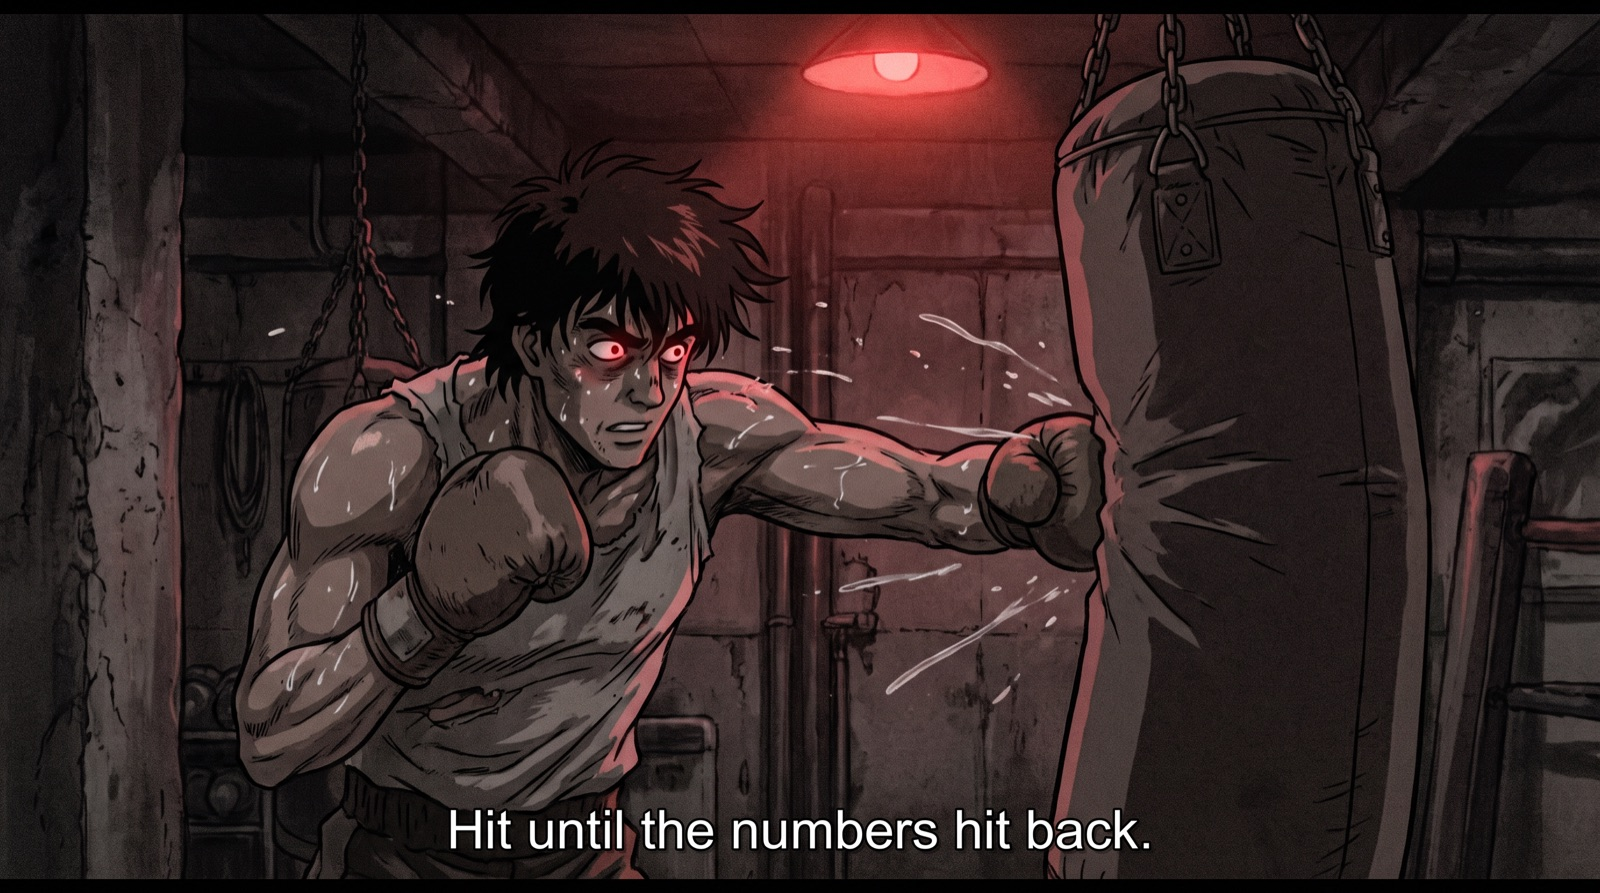
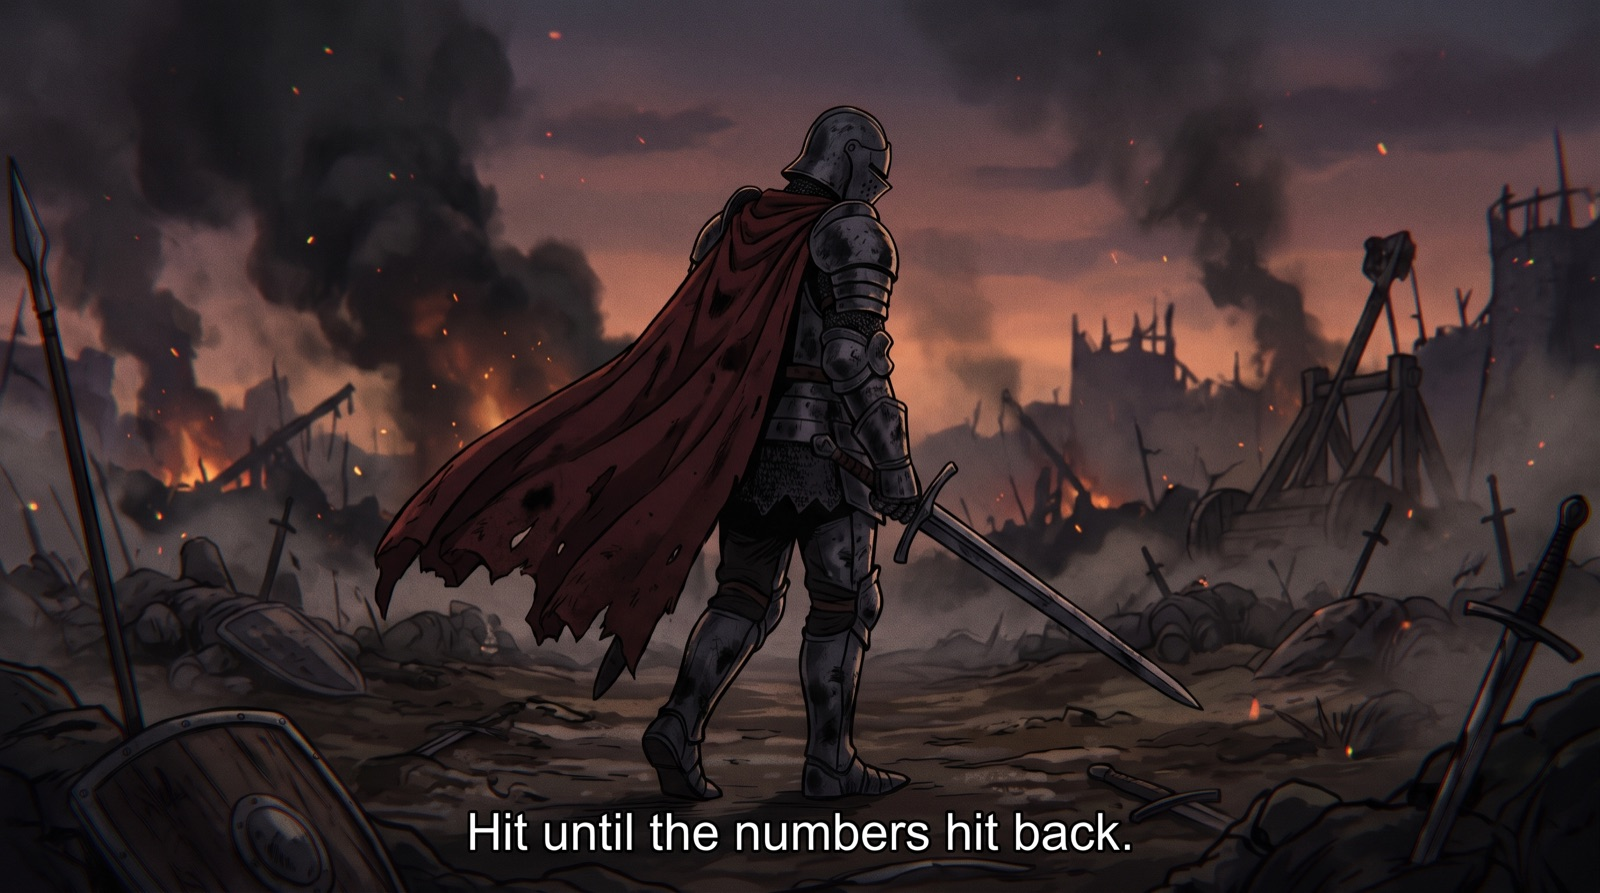
Motivation : avril, juin, juillet refaits en style ancien (empereur, roi, chevalier) ; cache v33

diff --git a/index.html b/index.html
@@ -1280,7 +1280,7 @@ function rendreTodo() {
   const claude = T.filter(x => x.qui === "claude" && (!x.fait || x.jour >= plusJours(aujL, -7)));
   const nomJ = TD.jour === aujL ? "aujourd'hui" : JOURS3[new Date(TD.jour + "T12:00:00Z").getUTCDay()] + " " + ddmm(TD.jour);
   w.innerHTML = `
-    <div class="motiv"><img src="img/motiv-${String(mi + 1).padStart(2, "0")}.jpg?v=6" alt="" onload="this.parentNode.classList.add('img-ok')" onerror="this.remove()">
+    <div class="motiv"><img src="img/motiv-${String(mi + 1).padStart(2, "0")}.jpg?v=7" alt="" onload="this.parentNode.classList.add('img-ok')" onerror="this.remove()">
       <div class="m">${MOIS[mi]} · objectif 100 KD</div><div class="q">${PHRASES[mi]}</div></div>
     <div class="semaine petite" id="td-sem">${jours.map(iso => { const d = new Date(iso + "T12:00:00Z");
       const reste = T.filter(x => x.qui === "moi" && x.jour === iso && !x.fait).length;

diff --git a/sw.js b/sw.js
@@ -1,7 +1,7 @@
 // Met l'application en cache pour qu'elle s'ouvre hors ligne.
 // Les DONNÉES ne sont jamais mises en cache : elles sont toujours
 // retéléchargées et déchiffrées à la volée.
-const CACHE = "suivi-v32";
+const CACHE = "suivi-v33";
 const COQUILLE = ["./index.html", "./manifest.json", "./icone.png"];
 
 self.addEventListener("install", e => {
